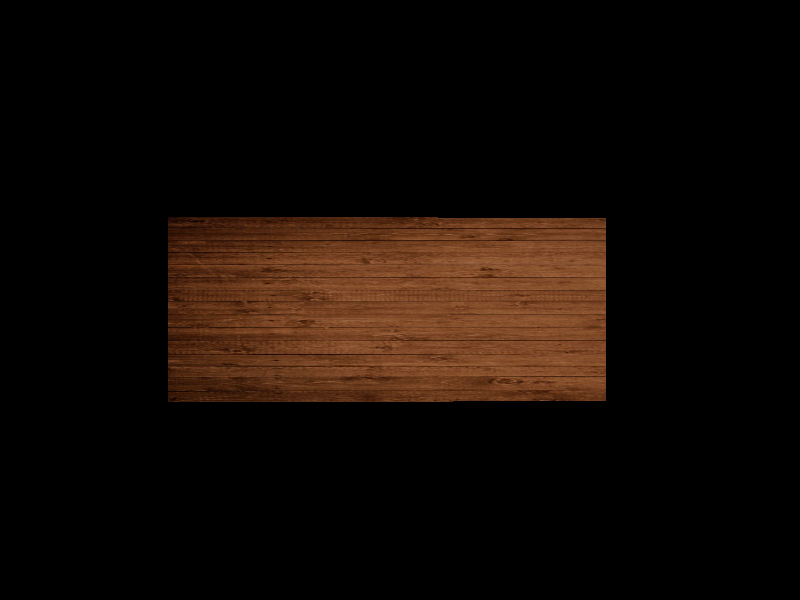
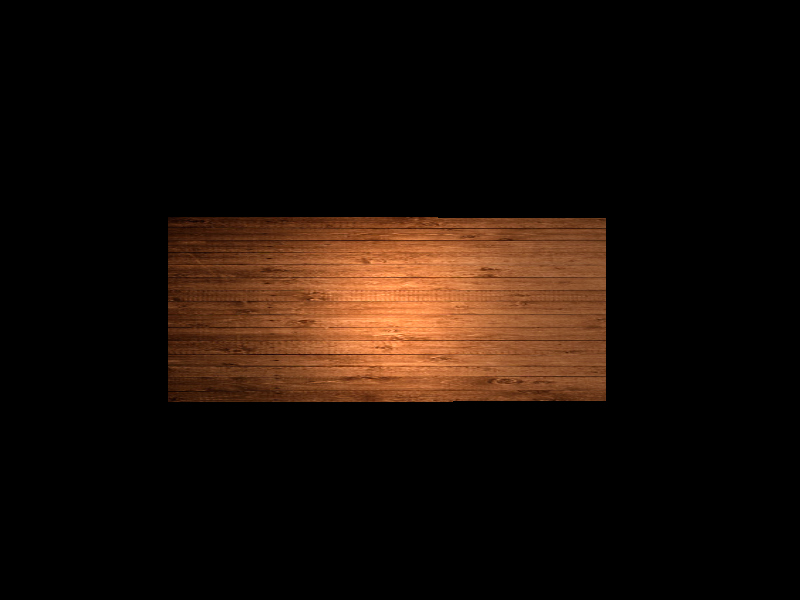
Wall with spotlight working.

Changed region(s): [[0.3438, 0.36, 0.6562, 0.69]]

diff --git a/main/a_rendering_walls.cpp b/main/a_rendering_walls.cpp
@@ -171,7 +171,7 @@ void a_rendering_walls()
     //directional light
     DirectionalLight dirl(Vector(0.2f,-0.5f,0.5f).normalize(), RGBColor(10,10,10));
     world.light.push_back(&dirl);
-    world.light.push_back(new SpotLight(cameraPostion, Vector(0, -1.0f, 0.0f).normalize(),  pi/4, 8.0f, RGBColor(100, 100, 100)));
+    world.light.push_back(new SpotLight(Point(-70, 70, 5), forwardVector.normalize(),  pi/4, 10.0f, RGBColor(RGBColor::rep(100000))));
 
 	// PerspectiveCamera cam1(Point(0.0f, 5.0f, 30.0f), Vector(0.0f, 0.0f, -1.0f), Vector(0.0f, 1.0f, 0.0f), pi / 4, pi / 3);
     // PerspectiveCamera cam1(cameraPostion, forwardVector, upVector, pi / 4, pi / 3);

diff --git a/rt/integrators/recraytrace.cpp b/rt/integrators/recraytrace.cpp
@@ -49,7 +49,8 @@ namespace rt
 						continue;
 
 					RGBColor reflected = currentMaterial->getReflectance(texturePoint, normal, outDirFlipped, inDir);
-					color = color + reflected * lightSource->getIntensity(lightHit);
+					RGBColor lightIntensity = lightSource->getIntensity(lightHit);
+					color = color + reflected * lightIntensity;
 				}
 			}
 
